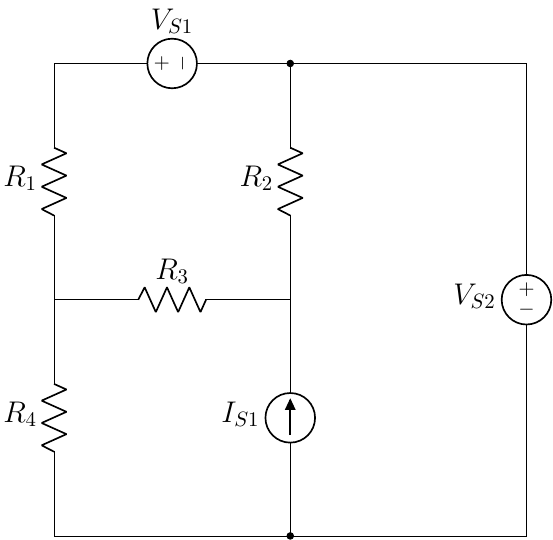
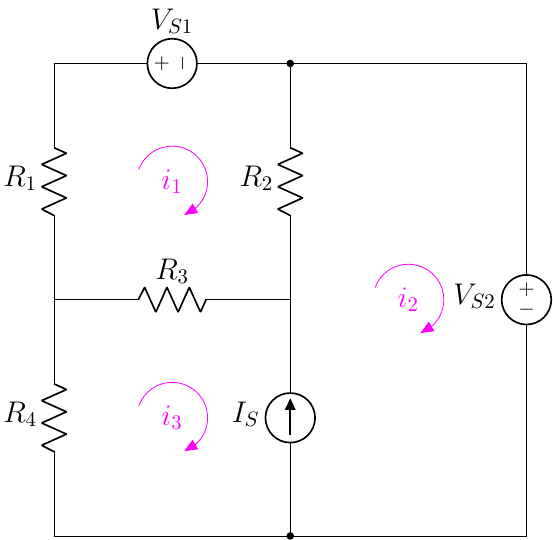
edit 3.44

diff --git a/1.6 Supermesh/3.5 Super Mesh Analysis/3.44(new).tex b/1.6 Supermesh/3.5 Super Mesh Analysis/3.44(new).tex
@@ -5,7 +5,7 @@
     \draw(0,0)  to[R,l=\rname{4}] ++(0,4)
                 to[R,l=\rname{1}] ++(0,4);
 
-    \draw(4,0)  to[I,l=\isname{1}] ++(0,4)
+    \draw(4,0)  to[I,l=\isname{}] ++(0,4)
                 to[R,l=\rname{2}] ++(0,4);
 
     \draw(8,0)  to[V,l=\vsname{2}] ++(0,8);
@@ -18,5 +18,8 @@
     \draw(8,8)  to[short,-*] ++(-4,0)
                 to[V,l_=\vsname{1}] ++(-4,0);
     %%% find %%%
+    \loopc{2}{6}{1};
+    \loopc{6}{4}{2};
+    \loopc{2}{2}{3};
 \end{circuitikz}
 \end{document}
